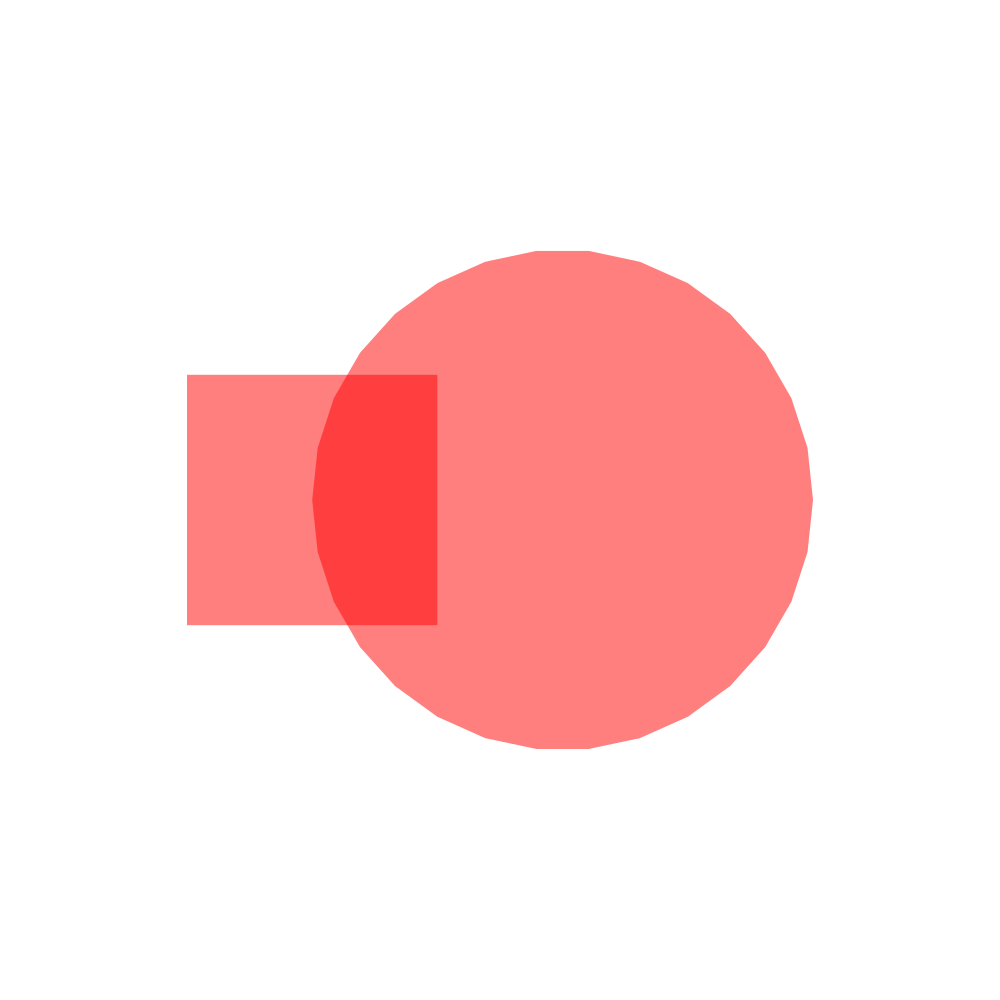
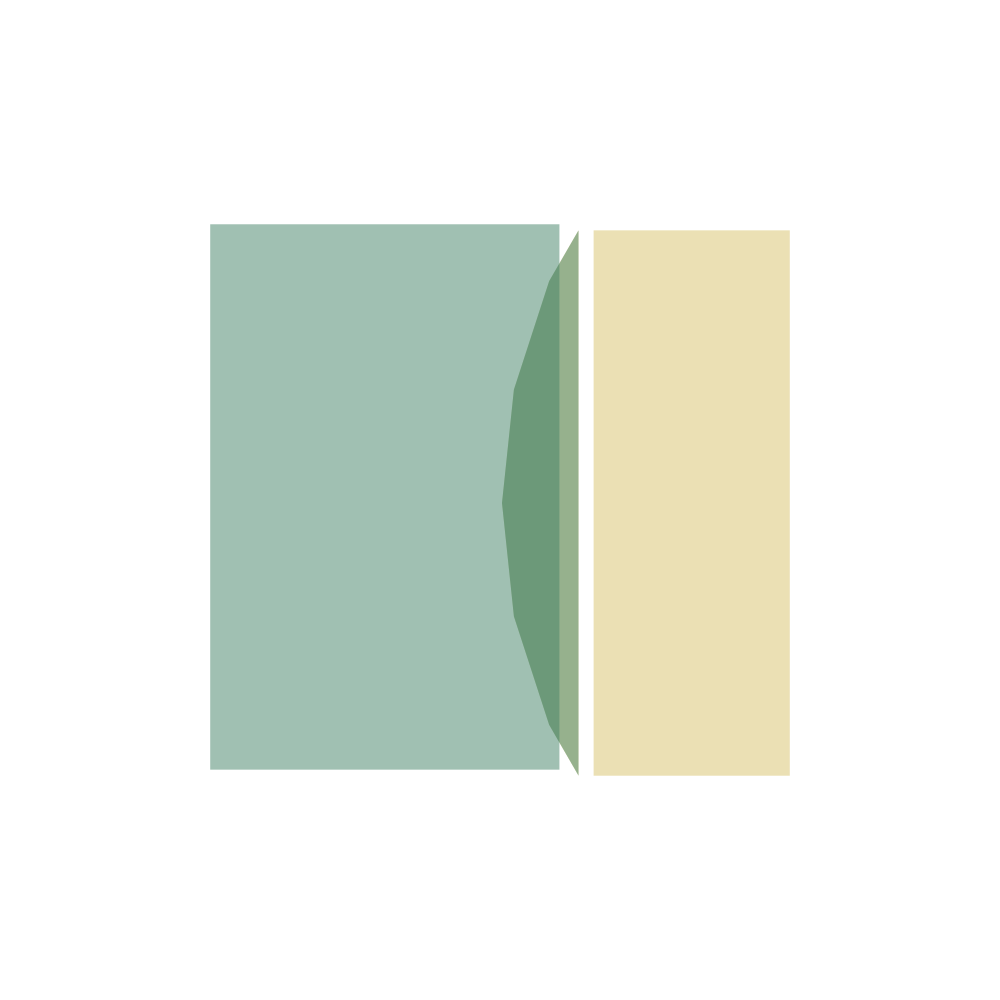
First working example of polygon intersection, but still bugged

diff --git a/examples/main_closure.py b/examples/main_closure.py
@@ -10,10 +10,10 @@ render = Canvas("main_closure.png").render()
 
 polygon1 = square(P0,1.0)
 polygon2 = Circle(Point(1.0,0.0),1.0).polygon()
-render.drawpolygons([polygon1,polygon2],Color.red(0.5))
 
-for ipolygon in polygon1.closures(polygon2):
-    render.drawpolygon(ipolygon.reduce(0.9),Color.rand())
+random.seed(0.0)
+for (spoly1,spoly2) in polygon2.closures(polygon1):
+    render.drawpolygons([poly.reduce(0.9) for poly in [spoly1,spoly2]],Color.rand(0.5))
 
 render.end()
 

diff --git a/lib/polygon.py b/lib/polygon.py
@@ -124,8 +124,8 @@ class Polygon:
             for seg2 in segs2:
                 p21,p22 = seg2
                 inter = raw_intersection(p11,p12,p21,p22)
-                if len(inter):
-                    print "inter",inter
+                if not inter == None:
+                    print "inter",inter.coords()
                     inters.append(inter)
             
             if len(inters):

diff --git a/lib/geoutils.py b/lib/geoutils.py
@@ -428,3 +428,12 @@ def raw_intersection (p1,p2,p3,p4):
 	    y = y1 + ua * (y2 - y1)
 	    return Point(x, y)
 	return None
+
+def preduce(points,ratio):
+    middle = pmiddle(points)
+    result = []
+    for p in points:
+        v = vector(middle,p)
+        newp = middle.add(v.scale(ratio))
+        result.append(newp)
+    return result
